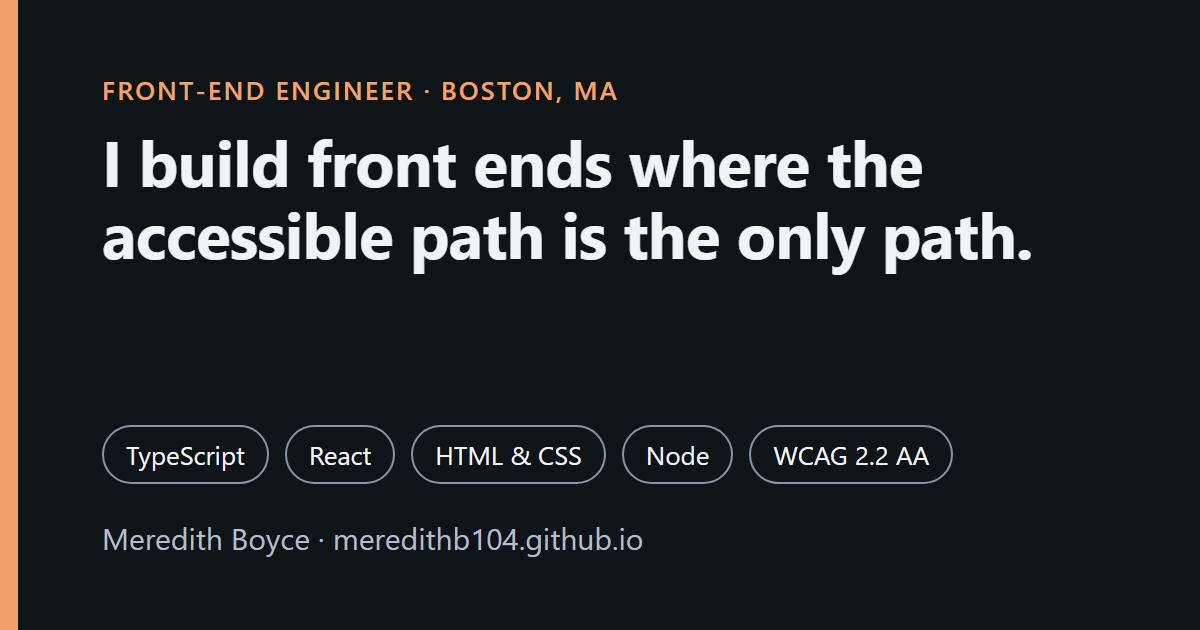
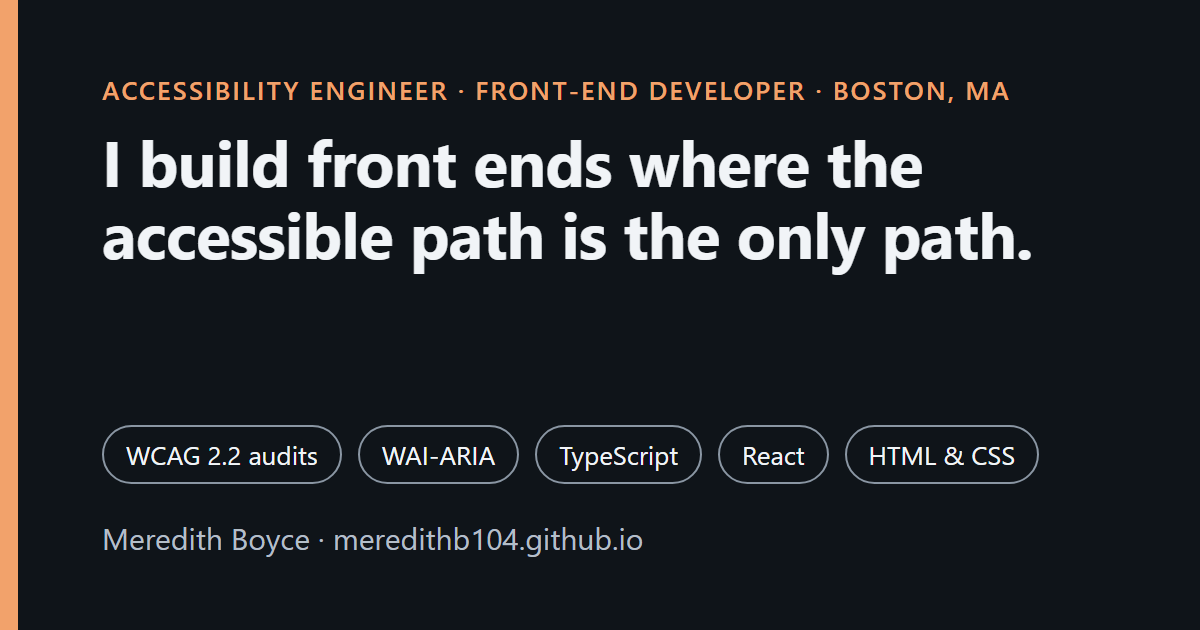
Lead with accessibility engineering
Title, meta description, Open Graph tags and card, eyebrow, lede, at-a-glance
facts, About, Skills (accessibility engineering first), Contact, and README
now present Meredith as an accessibility engineer who also builds the front
end, rather than a front-end engineer who cares about accessibility.

Changed region(s): [[0.0925, 0.6635, 0.8633, 0.7841], [0.0617, 0.1206, 0.8325, 0.181]]

diff --git a/index.html b/index.html
@@ -3,19 +3,19 @@
   <head>
     <meta charset="UTF-8" />
     <meta name="viewport" content="width=device-width, initial-scale=1.0" />
-    <title>Meredith Boyce, front-end engineer</title>
+    <title>Meredith Boyce, accessibility engineer</title>
     <meta
       name="description"
-      content="Meredith Boyce is a blind front-end engineer in Boston. TypeScript, React, HTML, CSS, Node. Accessible-by-default component libraries, Slack and Discord apps, WCAG 2.2 AA."
+      content="Meredith Boyce is a blind accessibility engineer and front-end developer in Boston. WCAG 2.2 audits and remediation, accessible-by-default component libraries, TypeScript, React, HTML, CSS, Node."
     />
     <meta name="color-scheme" content="light dark" />
     <meta name="theme-color" content="#FFFFFF" media="(prefers-color-scheme: light)" />
     <meta name="theme-color" content="#0F1419" media="(prefers-color-scheme: dark)" />
     <meta property="og:type" content="website" />
-    <meta property="og:title" content="Meredith Boyce, front-end engineer" />
+    <meta property="og:title" content="Meredith Boyce, accessibility engineer" />
     <meta
       property="og:description"
-      content="Front ends where the accessible path is the only path. TypeScript, React, HTML, CSS, Node. WCAG 2.2 AA, contrast enforced at build time."
+      content="Accessibility engineer who also builds the front end. WCAG 2.2 audits, remediation, and component libraries where the accessible path is the only path. TypeScript, React, HTML, CSS."
     />
     <meta property="og:url" content="https://meredithb104.github.io/" />
     <meta property="og:image" content="https://meredithb104.github.io/og-card.png" />
@@ -23,7 +23,7 @@
     <meta property="og:image:height" content="630" />
     <meta
       property="og:image:alt"
-      content="Meredith Boyce, front-end engineer. Front ends where the accessible path is the only path. TypeScript, React, HTML, CSS, WCAG 2.2."
+      content="Meredith Boyce, accessibility engineer. Front ends where the accessible path is the only path. WCAG 2.2, TypeScript, React, HTML, CSS."
     />
     <meta name="twitter:card" content="summary_large_image" />
     <link rel="icon" href="/favicon.svg" type="image/svg+xml" />
@@ -62,21 +62,23 @@
     <main id="main" tabindex="-1" class="wrap">
       <section class="hero" aria-labelledby="hero-h">
         <div>
-          <p class="eyebrow">Front-end engineer · Boston, MA</p>
+          <p class="eyebrow">Accessibility engineer · Front-end developer · Boston, MA</p>
           <h1 id="hero-h">I build front ends where the accessible path is the only path.</h1>
         </div>
         <p class="lede measure">
-          I'm Meredith Boyce. I'm a blind front-end engineer: I use a screen reader and a braille display all day,
-          and I've spent six years auditing other people's component libraries for the same dozen mistakes. I write
-          TypeScript, HTML, and CSS that pass the audit before it starts.
+          I'm Meredith Boyce, an accessibility engineer who also builds the front end. I'm blind: I use a screen
+          reader and a braille display all day, and I've spent six years auditing other people's component libraries
+          for the same dozen mistakes. I audit against WCAG 2.2, write the remediation, and then write the TypeScript,
+          HTML, and CSS that pass the audit before it starts.
         </p>
         <ul class="facts" role="list" aria-label="At a glance">
+          <li>WCAG 2.2 audits</li>
+          <li>WAI-ARIA APG</li>
+          <li>Screen reader user</li>
           <li>TypeScript</li>
           <li>React</li>
           <li>Node</li>
-          <li>WCAG 2.2</li>
-          <li>Screen reader user</li>
-          <li>Open to front-end and accessibility roles</li>
+          <li>Open to accessibility engineering and front-end roles</li>
         </ul>
         <div class="cta-row">
           <a class="button" href="#work">See my work</a>
@@ -95,10 +97,17 @@
       <section id="about" class="section flow" tabindex="-1" aria-labelledby="about-h">
         <h2 id="about-h">About</h2>
         <p>
+          Accessibility engineering is the job; front-end development is how I do it. I audit interfaces against
+          WCAG 2.2 and the WAI-ARIA Authoring Practices, write findings a developer can act on, and then, unlike
+          most auditors, fix them myself: the pull request, the tests that keep the fix in place, and the
+          accessibility statement that tells users what to expect.
+        </p>
+        <p>
           Most accessibility work happens after the fact: an audit, a spreadsheet of findings, a sprint of
           patches, and then the same findings a year later. I'd rather build so that the findings can't happen.
           That means using the platform before reaching for ARIA, treating a contrast failure as a build error, and
-          testing the behavior a screen reader user notices first, not just the markup.
+          testing the behavior a screen reader user notices first, not just the markup. Commons UI and this site are
+          that approach in code; the twelve mistakes in the Lab are what the audits keep turning up.
         </p>
         <p>
           I work across the stack when a project needs it. The two bots in the case studies below are TypeScript
@@ -800,6 +809,14 @@
         <h2 id="skills-h">Skills</h2>
         <dl class="skills">
           <div>
+            <dt>Accessibility engineering</dt>
+            <dd>
+              WCAG 2.2 A, AA and AAA audits; WAI-ARIA Authoring Practices; remediation plans and the pull requests
+              that carry them out; automated checks (axe-core, Playwright) wired into CI; accessibility statements;
+              daily screen reader (JAWS) and braille display use; plain-language findings for non-engineers.
+            </dd>
+          </div>
+          <div>
             <dt>Languages</dt>
             <dd>TypeScript (strict, everywhere), JavaScript, HTML, CSS, SVG. Comfortable in Kotlin and Java for Android.</dd>
           </div>
@@ -815,13 +832,6 @@
             <dd>
               Node, Slack Bolt, discord.js, Firestore, Google Calendar API, REST integrations with language models,
               node-cron, Docker, Railway.
-            </dd>
-          </div>
-          <div>
-            <dt>Accessibility</dt>
-            <dd>
-              WCAG 2.2 AA and AAA criteria, WAI-ARIA Authoring Practices, daily screen reader and braille display
-              use, manual audits, remediation plans, accessibility statements.
             </dd>
           </div>
           <div>
@@ -841,7 +851,7 @@
       <section id="contact" class="section flow" tabindex="-1" aria-labelledby="contact-h">
         <h2 id="contact-h">Contact</h2>
         <p class="measure">
-          I'm open to front-end, design-systems, and accessibility engineering roles, remote or in the Boston area.
+          I'm open to accessibility engineering, front-end, and design-systems roles, remote or in the Boston area.
           Email is best; LinkedIn works too.
         </p>
         <div class="cta-row">

diff --git a/accessibility.html b/accessibility.html
@@ -44,7 +44,7 @@
       <p class="eyebrow">Accessibility statement</p>
       <h1>This site is built to WCAG 2.2 Level AA</h1>
       <p class="measure">
-        I'm a blind engineer, so this page is the one I care most about getting right. This statement says what
+        I'm a blind accessibility engineer, so this page is the one I care most about getting right. This statement says what
         the site conforms to, how I checked, what I know isn't perfect, and how to tell me when something is wrong.
         Last reviewed: <time datetime="2026-09-17">17 September 2026</time>.
       </p>

diff --git a/README.md b/README.md
@@ -1,6 +1,6 @@
 # meredithb104.github.io
 
-**Portfolio of Meredith Boyce, front-end engineer.** Live at **https://meredithb104.github.io/**
+**Portfolio of Meredith Boyce, accessibility engineer and front-end developer.** Live at **https://meredithb104.github.io/**
 
 Static HTML, hand-written CSS, and a few kilobytes of TypeScript. No framework runtime. Built to WCAG 2.2 AA, with contrast enforced at build time and axe-core run in a real browser on every push.
 
